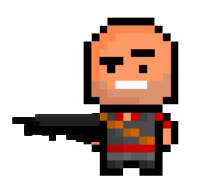
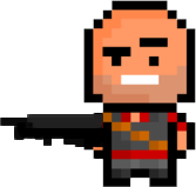
more images and so on

diff --git a/render.c b/render.c
@@ -81,7 +81,9 @@ void renderInit(App *app){
 	renderMapInit(app, 0);
 
 	app->menu.soldier = IMG_Load("data/soldado1_grande.png");
-	app->menu.zombie = IMG_Load("data/engenheiro1_grande.png");
+	app->menu.zombie = IMG_Load("data/zombie1.png");
+	app->menu.bigZombie = IMG_Load("data/zombie2_grande.png");
+	app->menu.engineer = IMG_Load("data/engenheiro1.png");
 	app->game.player1.up = IMG_Load("data/soldado1_costas.png");
 	app->game.player1.down = IMG_Load("data/soldado1.png");
 	app->game.player1.left = IMG_Load("data/soldado1.png");
@@ -105,11 +107,16 @@ void renderMenu(App *app){
 	Menu *menu = &app->menu;
 	SDL_Surface *screen = app->screen;
 
-	SDL_Rect soldierPos = {-700, -50, screen->w, screen->h};
-    SDL_BlitSurface(menu->soldier, &soldierPos, screen, NULL );
+	SDL_Rect titleCharPos = {-700, -50, screen->w, screen->h};
+	SDL_BlitSurface(menu->engineer, &titleCharPos, screen, NULL );
 
-	SDL_Rect engPos = {-700, -400, screen->w, screen->h};
-    SDL_BlitSurface(menu->zombie, &engPos, screen, NULL );
+	if(app->state == STATE_PAUSED) {
+	  SDL_Rect highlightChar = {-750, -450, screen->w, screen->h};
+	  SDL_BlitSurface(menu->bigZombie, &highlightChar, screen, NULL );
+	} else {
+	  SDL_Rect highlightChar = {-700, -450, screen->w, screen->h};
+	  SDL_BlitSurface(menu->soldier, &highlightChar, screen, NULL );
+	}
 
 	int resumePadding = 0;
 	if(app->state  == STATE_PAUSED){
@@ -131,7 +138,7 @@ void renderCredits(App *app)
 	SDL_Surface *screen = app->screen;
 	SDL_FillRect(screen, NULL , color);
 
-	SDL_Rect zombiePos = {-700, -50, screen->w, screen->h};
+	SDL_Rect zombiePos = {-670, -50, screen->w, screen->h};
     SDL_BlitSurface(app->menu.zombie, &zombiePos, screen, NULL );
 
     text_write_raw(screen, 300, 50, "Credits", red, 96);
